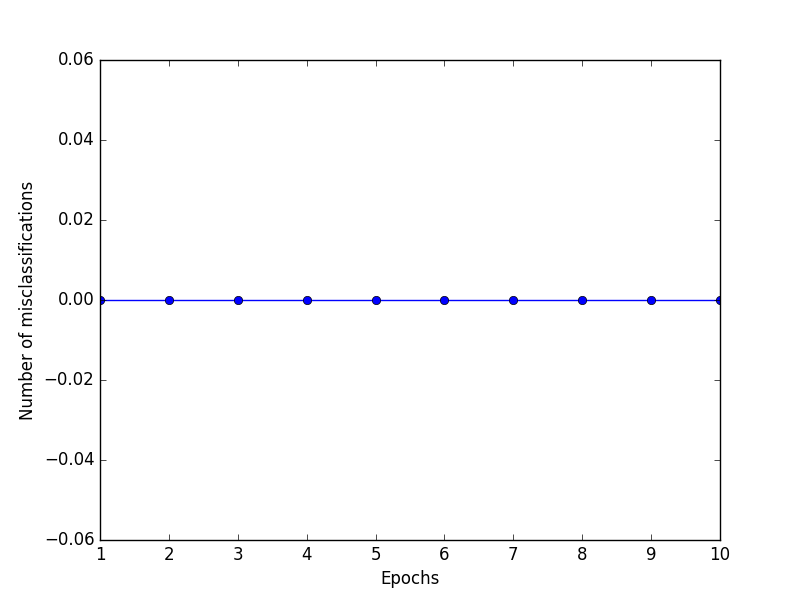
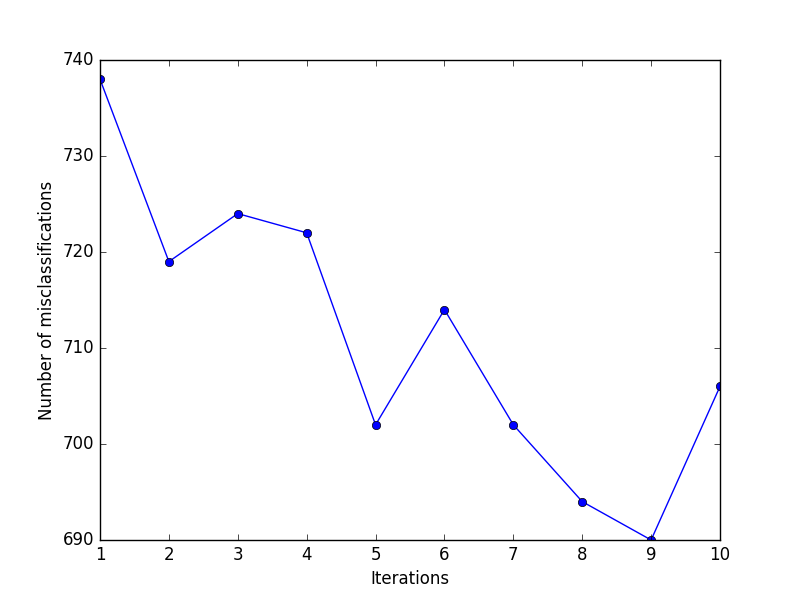
bunch of progress on ml

diff --git a/app/equity/ml_eqs/run_ml.py b/app/equity/ml_eqs/run_ml.py
@@ -3,7 +3,7 @@ sys.path.append("/home/ubuntu/workspace/finance")
 import matplotlib as mpl
 mpl.use('Agg')
 import matplotlib.pyplot as plt
-import datetime, pdb
+import datetime, pdb, time
 import numpy as np
 import pandas as pd
 from sklearn.cross_validation import train_test_split
@@ -14,6 +14,7 @@ from app.equity.analysis_eqs.utils_analysis import loadDataToDB, getKeyStatsData
 from app.equity.data_grab import ms_dg_helper
 from app.utils.db_utils import DBHelper
 from app.equity.ml_eqs.perceptron import Perceptron
+from app.equity.ml_eqs.ml_utils import plot_decision_regions
 
 IMG_PATH = '/home/ubuntu/workspace/finance/app/static/img/ml_imgs/'
 
@@ -21,11 +22,15 @@ def run(inputs, load_data=False):
     if load_data:
         loadDataToDB()
     # Temp to make testing quicker
+    t0 = time.time()
     with DBHelper() as db:
         db.connect()
-        df = db.select('morningstar', where = 'date in ("2010", "2013")')
+        df = db.select('morningstar', where = 'date in ("2010", "2015")')
     # Getting Dataframe
     # df = getKeyStatsDataFrame(table='morningstar', date='')
+    t1 = time.time()
+    app.logger.info("Done Retrieving data, took {0} seconds".format(t1-t0))
+    print("Done Retrieving data, took {0} seconds".format(t1-t0))
     df = removeUnnecessaryColumns(df)
     df = addTarget(df)
     df = cleanData(df)
@@ -41,11 +46,11 @@ def selectInputs(df, inputs):
     return df
 
 def addTarget(df):
-    yr_avg_ret = 3
+    yr_avg_ret = 5
     target = []
     for ind, row in df.iterrows():
         try:
-            t = df[(df['ticker'] == row['ticker']) & (df['date'] == str(int(row['date']) + yr_avg_ret))]['3yrReturn'].iloc[0]
+            t = df[(df['ticker'] == row['ticker']) & (df['date'] == str(int(row['date']) + yr_avg_ret))]['5yrReturn'].iloc[0]
             target.append(t)
         except Exception as e:
             exc_type, exc_obj, exc_tb = sys.exc_info()
@@ -58,11 +63,9 @@ def addTarget(df):
 
 def targetToCat(x):
     if (x > 10):
-        return 2
-    elif (x > 0):
         return 1
     else:
-        return 0
+        return -1
 
 def removeUnnecessaryColumns(df):
     df = df[ms_dg_helper.RATIOS + ms_dg_helper.KEY_STATS + ms_dg_helper.OTHER +
@@ -72,13 +75,14 @@ def removeUnnecessaryColumns(df):
 
 def cleanData(df):
     df = df[df['trailingPE'] != 0]
-    df = df[df['priceToBook'] != 0]
+    df = df[df['priceToBook'] > 0]
     df = df[df['priceToSales'] != 0]
     df = df[df['divYield'] >= 0]
     
     # Temp for training purposes
-    df = df[abs(df['divYield']) < 20]
-    df = df[abs(df['trailingPE']) < 100]
+    df = df[abs(df['trailingPE']) < 200]
+    df = df[abs(df['priceToBook']) < 10]
+    df = df[df['trailingPE'] > 0]
     return df
 
 def run_perceptron(df, eta=0.1, n_iter=10):
@@ -97,30 +101,35 @@ def run_perceptron(df, eta=0.1, n_iter=10):
         ======
         NONE
     '''
+    t0 = time.time()
     y = df['target']
-    X = df[['trailingPE','divYield']]
-    str_buy = df[df['target'] == 2][list(X.columns)].values
-    buy = df[df['target'] == 1][list(X.columns)].values
-    sell = df[df['target'] == 0][list(X.columns)].values
-    pdb.set_trace()
+    X = df[['trailingPE','priceToSales']]
+    buy = df[df['target'] > 0][list(X.columns)].values
+    sell = df[df['target'] < 0][list(X.columns)].values
     plt.figure(figsize=(7,4))
-    plt.scatter(str_buy[:, 0], str_buy[:, 1], color='red', marker='o', label='Strong Buy')
-    plt.scatter(buy[:, 0], buy[:, 1], color='blue', marker='x', label='Buy')
-    plt.scatter(sell[:, 0], sell[:, 1], color='green', marker='^', label='Sell')
+    plt.scatter(buy[:, 0], buy[:, 1], color='green', marker='o', label='Buy')
+    plt.scatter(sell[:, 0], sell[:, 1], color='red', marker='x', label='Sell')
     plt.xlabel('Trailing PE')
-    plt.ylabel('Div Yield')
+    plt.ylabel('priceToBook')
     plt.legend()
-    pdb.set_trace()
+    ppn = Perceptron(eta, n_iter)
+    ppn.fit(X.values, y.values)
+    # pdb.set_trace()
+    plot_decision_regions(X.values, y.values, classifier=ppn)
     plt.savefig(IMG_PATH + "scatter.png")
     plt.close()
     
-    ppn = Perceptron(eta, n_iter)
-    ppn.fit(X, y)
     plt.plot(range(1,len(ppn.errors_) + 1), ppn.errors_,marker='o')
-    plt.xlabel('Epochs')
+    plt.xlabel('Iterations')
     plt.ylabel('Number of misclassifications')
     plt.savefig(IMG_PATH + "misclassifications.png")
     plt.close()
+    
+    t1 = time.time()
+    app.logger.info("Done training data and creating charts, took {0} seconds".format(t1-t0))
+    print("Done training data and creating charts, took {0} seconds".format(t1-t0))
+    
+    
     
 
 if __name__ == "__main__":

diff --git a/app/equity/ml_eqs/ml_utils.py b/app/equity/ml_eqs/ml_utils.py
@@ -1,7 +1,47 @@
-
+import numpy as np
+import matplotlib as mpl
+mpl.use('Agg')
+import pandas as pd
+import matplotlib.pyplot as plt
+from matplotlib.colors import ListedColormap
 
 def update_check(list1, list2):
     for i,j in zip(list1, list2):
         if i != j:
             return True
     return False
+    
+def plot_decision_regions(X, y, classifier, test_idx=None, resolution=0.02):
+
+   # setup marker generator and color map
+   markers = ('s', 'x', 'o', '^', 'v')
+   colors = ('red', 'blue', 'lightgreen', 'gray', 'cyan')
+   cmap = ListedColormap(colors[:len(np.unique(y))])
+
+   # plot the decision surface
+   x1_min, x1_max = X[:, 0].min() - 1, X[:, 0].max() + 1
+   x2_min, x2_max = X[:, 1].min() - 1, X[:, 1].max() + 1
+   xx1, xx2 = np.meshgrid(np.arange(x1_min, x1_max, resolution),
+                          np.arange(x2_min, x2_max, resolution))
+   Z = classifier.predict(np.array([xx1.ravel(), xx2.ravel()]).T)
+   Z = Z.reshape(xx1.shape)
+   plt.contourf(xx1, xx2, Z, alpha=0.4, cmap=cmap)
+   plt.xlim(xx1.min(), xx1.max())
+   plt.ylim(xx2.min(), xx2.max())
+
+   for idx, cl in enumerate(np.unique(y)):
+       plt.scatter(x=X[y == cl, 0], y=X[y == cl, 1],
+                   alpha=0.8, c=cmap(idx),
+                   marker=markers[idx], label=cl)
+
+   # highlight test samples
+   if test_idx:
+       X_test, y_test = X[test_idx, :], y[test_idx]
+       plt.scatter(X_test[:, 0],
+                   X_test[:, 1],
+                   c='',
+                   alpha=1.0,
+                   linewidths=1,
+                   marker='o',
+                   s=55, label='test set')
+                   

diff --git a/app/equity/ml_eqs/perceptron.py b/app/equity/ml_eqs/perceptron.py
@@ -62,5 +62,4 @@ class Perceptron(object):
 
     def predict(self, X):
         """Return class label after unit step"""
-        pdb.set_trace()
         return np.where(self.net_input(X) >= 0.0, 1, -1)
